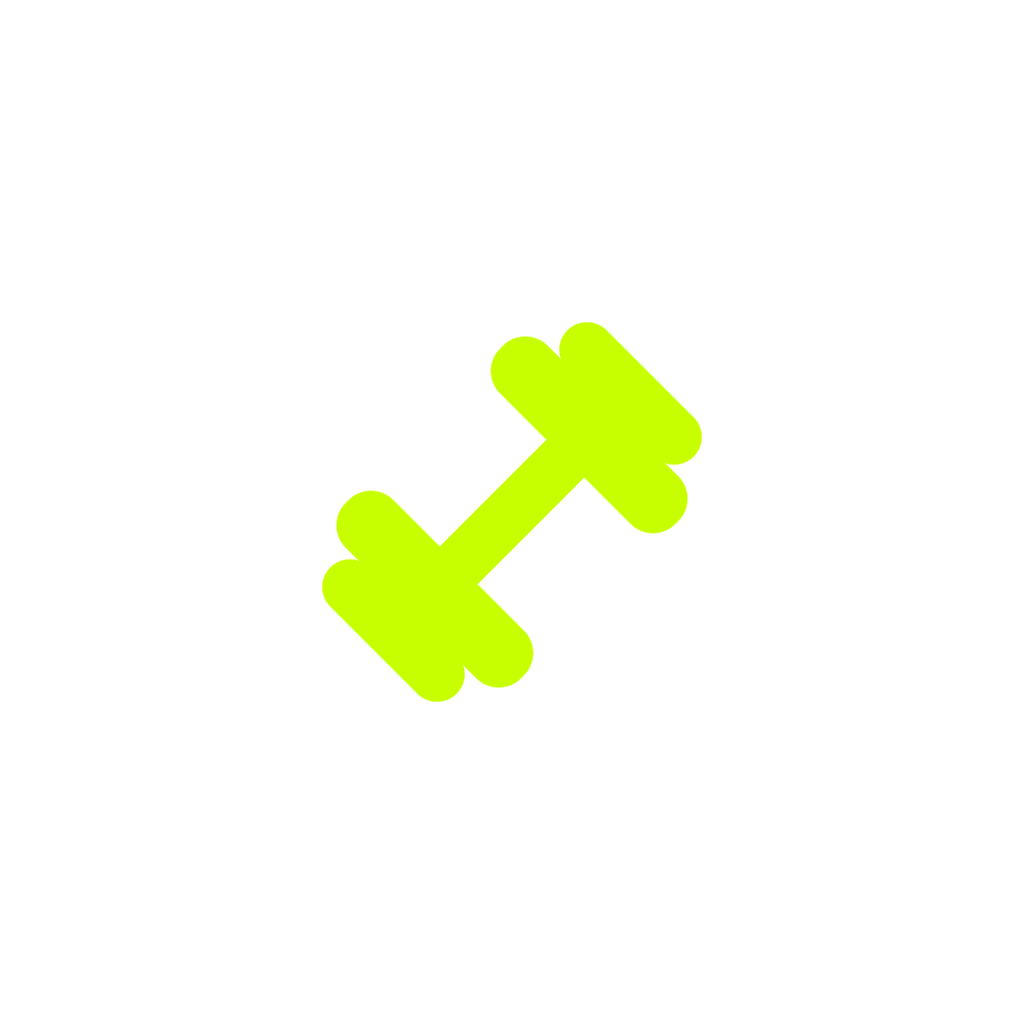
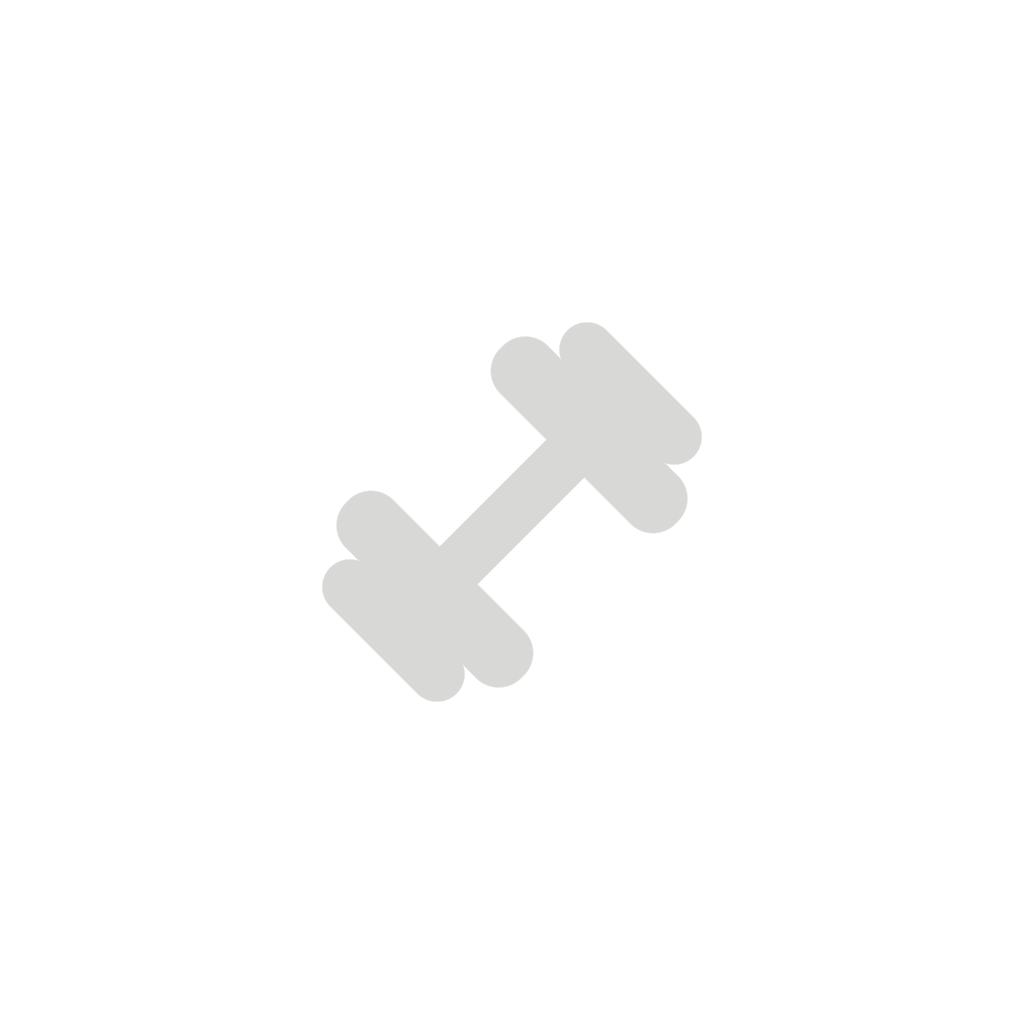
feat: rediseño monocromo puro (paleta de 5 grises, sin color)
Nueva paleta: #00030D · #626B73 · #949DA6 · #BFBFBF · #D8D9D7. Cascada casi
completa desde el theme central (colors.*); solo unos pocos hardcodes sueltos
(gradientes de login/perfil, badges de fase) se ajustaron a mano.

Mapeo semántico (no arbitrario): el brillo reemplaza al matiz. "success"/
mejorando = el gris más claro (vitalidad); "danger"/bajando = el más oscuro
(se apaga); "warning"/manteniendo = el intermedio. Los íconos (▲▼✓) ya
cargaban el significado en paralelo al color, así que nada pierde claridad.

Íconos de la app regenerados en monocromo (mancuerna gris claro sobre
#00030D) para que el ícono del teléfono sea coherente con la UI interna.

Changed region(s): [[0.3125, 0.3125, 0.6875, 0.6875]]

diff --git a/trainer-app/src/theme/index.ts b/trainer-app/src/theme/index.ts
@@ -1,25 +1,28 @@
 import { Platform } from 'react-native';
 
+// Monocromo puro: 5 grises, sin matiz de color. La jerarquía se construye por
+// brillo, no por tono — "success" es más claro (vitalidad/progreso), "danger"
+// más oscuro (se apaga), en vez de verde/rojo.
 export const colors = {
-  background: '#08090A',
-  backgroundElevated: '#0E1012',
-  surface: '#15181B',
-  card: '#16191C',
-  cardElevated: '#1D2126',
-  accent: '#C8FF00',
-  accentDark: '#9ACC00',
-  accentSoft: 'rgba(200, 255, 0, 0.10)',
-  accentGlow: 'rgba(200, 255, 0, 0.22)',
-  textPrimary: '#FFFFFF',
-  textSecondary: '#B4BAC1',
-  textMuted: '#6E757D',
-  border: '#23272C',
-  borderLight: '#31363C',
-  danger: '#FF5252',
-  warning: '#FF9F1C',
-  success: '#3DDC84',
-  info: '#4CC9F0',
-  overlay: 'rgba(0, 0, 0, 0.72)',
+  background: '#00030D',
+  backgroundElevated: '#080B14',
+  surface: '#10131C',
+  card: '#12151E',
+  cardElevated: '#1B1E27',
+  accent: '#D8D9D7',
+  accentDark: '#BFBFBF',
+  accentSoft: 'rgba(216, 217, 215, 0.08)',
+  accentGlow: 'rgba(216, 217, 215, 0.16)',
+  textPrimary: '#D8D9D7',
+  textSecondary: '#949DA6',
+  textMuted: '#626B73',
+  border: '#232732',
+  borderLight: '#333844',
+  danger: '#626B73',
+  warning: '#949DA6',
+  success: '#D8D9D7',
+  info: '#949DA6',
+  overlay: 'rgba(0, 3, 13, 0.78)',
 } as const;
 
 // Anton: display condensada estilo cartel deportivo (una sola weight, usar en mayúsculas)

diff --git a/trainer-app/src/screens/client/TodayScreen.tsx b/trainer-app/src/screens/client/TodayScreen.tsx
@@ -18,8 +18,8 @@ import { refreshReminders } from '../../lib/notifications';
 
 const PHASE_INFO: Record<string, { label: string; color: string }> = {
   acumulacion: { label: 'ACUMULACIÓN', color: colors.accent },
-  intensificacion: { label: 'INTENSIFICACIÓN', color: '#FF9F1C' },
-  descarga: { label: 'DESCARGA', color: '#4CC9F0' },
+  intensificacion: { label: 'INTENSIFICACIÓN', color: colors.textSecondary },
+  descarga: { label: 'DESCARGA', color: colors.textMuted },
 };
 
 export default function TodayScreen() {

diff --git a/trainer-app/src/screens/client/CoachProfileScreen.tsx b/trainer-app/src/screens/client/CoachProfileScreen.tsx
@@ -162,7 +162,7 @@ export default function CoachProfileScreen() {
               resizeMode="cover"
             >
               <LinearGradient
-                colors={['rgba(26,26,26,0)', 'rgba(26,26,26,0.35)', '#1A1A1A']}
+                colors={['rgba(0,3,13,0)', 'rgba(0,3,13,0.35)', '#00030D']}
                 locations={[0, 0.6, 1]}
                 style={StyleSheet.absoluteFill}
               />

diff --git a/trainer-app/src/screens/auth/LoginScreen.tsx b/trainer-app/src/screens/auth/LoginScreen.tsx
@@ -62,7 +62,7 @@ export default function LoginScreen() {
     >
       <StatusBar barStyle="light-content" />
       <LinearGradient
-        colors={['rgba(10,10,10,0.25)', 'rgba(10,10,10,0.75)', '#0A0A0A']}
+        colors={['rgba(0,3,13,0.25)', 'rgba(0,3,13,0.75)', '#00030D']}
         locations={[0, 0.55, 0.88]}
         style={StyleSheet.absoluteFill}
       />
